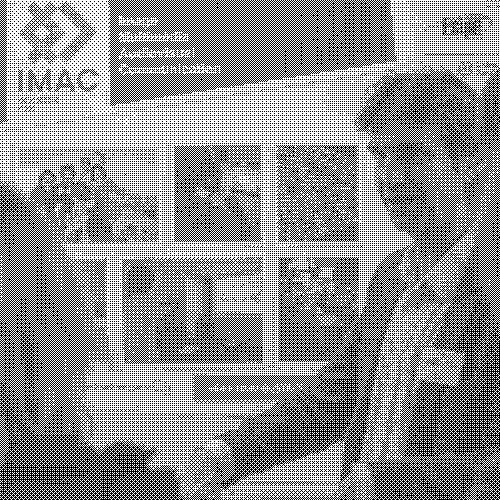
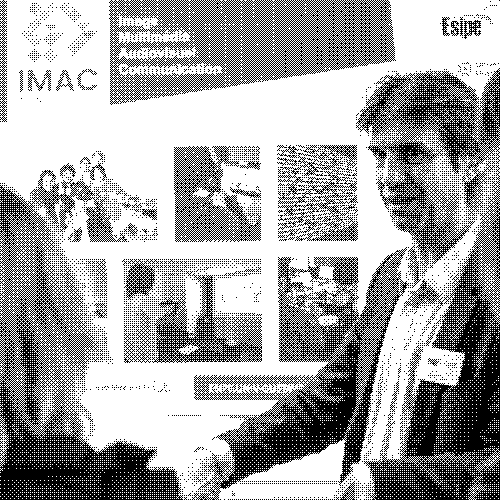
modif tramage

diff --git a/src/19_tramage/main.cpp b/src/19_tramage/main.cpp
@@ -26,7 +26,7 @@ int main()
             
             /*creation de la matrice de bayer et calcul de l'output color*/
             float bayer_value = bayer_matrix_4x4[y % bayer_n][x % bayer_n];
-            float output_color = glm::length(output_image.pixel(x,y)) + (3 * bayer_value);  
+            float output_color = glm::length(output_image.pixel(x,y)) + (1 * bayer_value);  
 
             /*condition pour être en blanc*/
             if (output_color > (1.f / 2.f)) {
